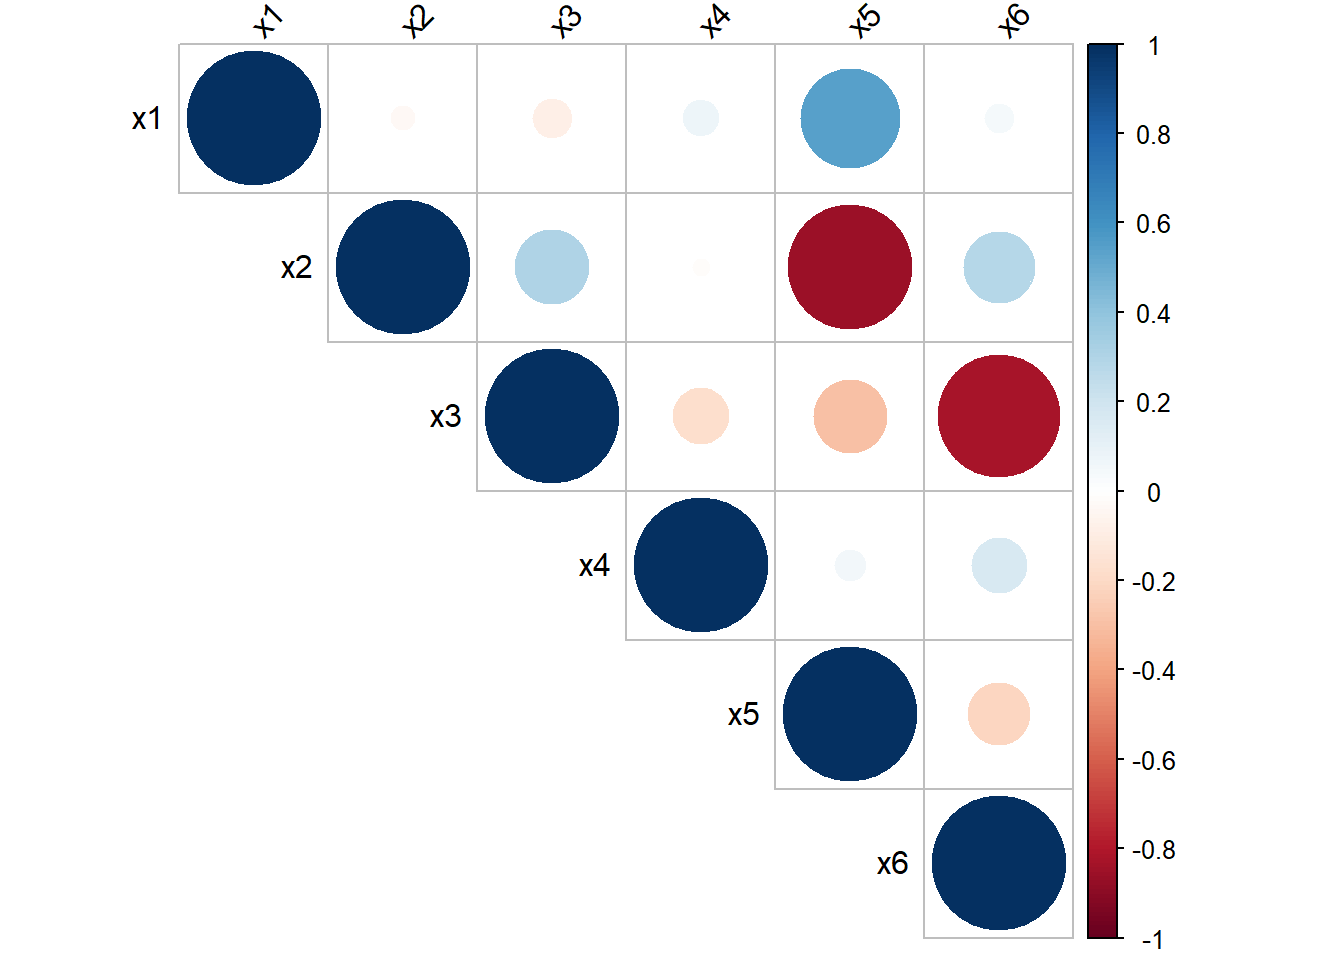
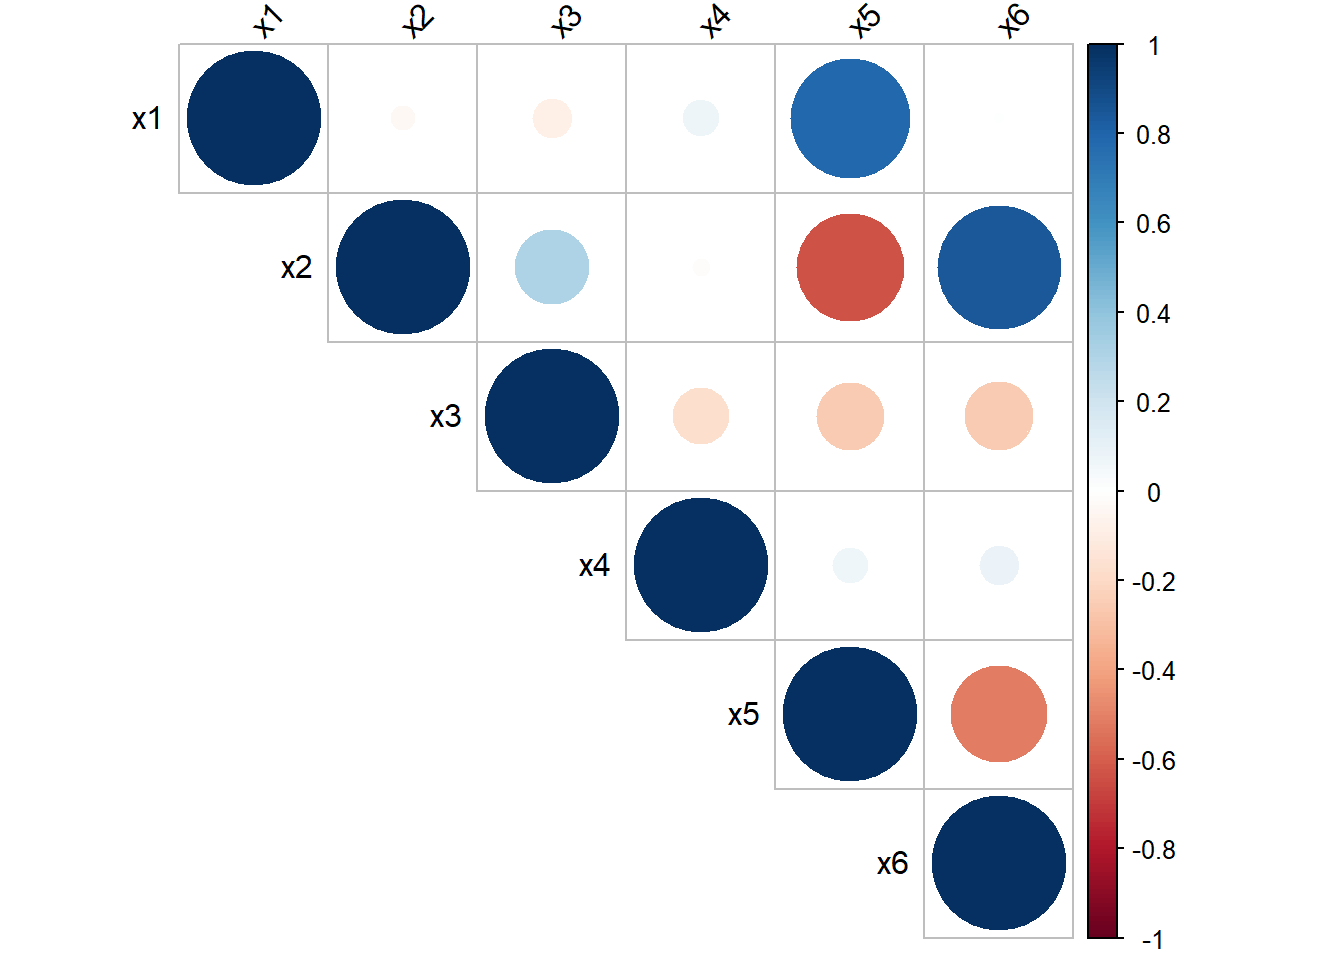
nuevos ejemplos para multi

Changed region(s): [[0.5625, 0.0625, 0.8125, 0.5], [0.6875, 0.6875, 0.7812, 0.8125], [0.7188, 0.5625, 0.7812, 0.625]]

diff --git a/docs/multicoli.html b/docs/multicoli.html
@@ -459,18 +459,23 @@ div.csl-indent {
 <ul>
 <li class="chapter" data-level="" data-path="multicoli.html"><a href="multicoli.html#ejemplo-48"><i class="fa fa-check"></i>Ejemplo</a></li>
 </ul></li>
+<li class="chapter" data-level="" data-path="multicoli.html"><a href="multicoli.html#análisis-de-los-valores-propios-de-mathbfxtopmathbfx"><i class="fa fa-check"></i>Análisis de los valores propios de <span class="math inline">\(\mathbf{X}^\top\mathbf{X}\)</span></a>
+<ul>
+<li class="chapter" data-level="" data-path="multicoli.html"><a href="multicoli.html#número-de-condición"><i class="fa fa-check"></i>Número de condición</a></li>
+<li class="chapter" data-level="" data-path="multicoli.html"><a href="multicoli.html#ejemplo-49"><i class="fa fa-check"></i>Ejemplo</a></li>
+</ul></li>
 </ul></li>
 <li class="chapter" data-level="18" data-path="algmat.html"><a href="algmat.html"><i class="fa fa-check"></i><b>18</b> Algebra matricial con R</a>
 <ul>
 <li class="chapter" data-level="" data-path="algmat.html"><a href="algmat.html#matrices"><i class="fa fa-check"></i>Matrices</a>
 <ul>
-<li class="chapter" data-level="" data-path="algmat.html"><a href="algmat.html#ejemplo-49"><i class="fa fa-check"></i>Ejemplo</a></li>
+<li class="chapter" data-level="" data-path="algmat.html"><a href="algmat.html#ejemplo-50"><i class="fa fa-check"></i>Ejemplo</a></li>
 </ul></li>
 <li class="chapter" data-level="" data-path="algmat.html"><a href="algmat.html#operaciones-básicas-sobre-una-matriz"><i class="fa fa-check"></i>Operaciones básicas sobre una matriz</a></li>
 <li class="chapter" data-level="" data-path="algmat.html"><a href="algmat.html#rango-de-una-matriz"><i class="fa fa-check"></i>Rango de una matriz</a>
 <ul>
-<li class="chapter" data-level="" data-path="algmat.html"><a href="algmat.html#ejemplo-50"><i class="fa fa-check"></i>Ejemplo</a></li>
 <li class="chapter" data-level="" data-path="algmat.html"><a href="algmat.html#ejemplo-51"><i class="fa fa-check"></i>Ejemplo</a></li>
+<li class="chapter" data-level="" data-path="algmat.html"><a href="algmat.html#ejemplo-52"><i class="fa fa-check"></i>Ejemplo</a></li>
 </ul></li>
 </ul></li>
 <li class="chapter" data-level="19" data-path="WilRog.html"><a href="WilRog.html"><i class="fa fa-check"></i><b>19</b> Notación de Wilkinson y Rogers</a>
@@ -481,13 +486,13 @@ div.csl-indent {
 </ul></li>
 <li class="chapter" data-level="20" data-path="xy.html"><a href="xy.html"><i class="fa fa-check"></i><b>20</b> ¿Cómo obtener la matriz <span class="math inline">\(\boldsymbol{X}\)</span> y el vector <span class="math inline">\(\boldsymbol{y}\)</span>?</a>
 <ul>
-<li class="chapter" data-level="" data-path="xy.html"><a href="xy.html#ejemplo-52"><i class="fa fa-check"></i>Ejemplo</a></li>
+<li class="chapter" data-level="" data-path="xy.html"><a href="xy.html#ejemplo-53"><i class="fa fa-check"></i>Ejemplo</a></li>
 </ul></li>
 <li class="chapter" data-level="21" data-path="important.html"><a href="important.html"><i class="fa fa-check"></i><b>21</b> Otros aspectos importantes</a>
 <ul>
 <li class="chapter" data-level="" data-path="important.html"><a href="important.html#qué-otras-funciones-hay-en-r-para-ajustar-un-modelo"><i class="fa fa-check"></i>¿Qué otras funciones hay en R para ajustar un modelo?</a>
 <ul>
-<li class="chapter" data-level="" data-path="important.html"><a href="important.html#ejemplo-53"><i class="fa fa-check"></i>Ejemplo</a></li>
+<li class="chapter" data-level="" data-path="important.html"><a href="important.html#ejemplo-54"><i class="fa fa-check"></i>Ejemplo</a></li>
 </ul></li>
 <li class="chapter" data-level="" data-path="important.html"><a href="important.html#modelos-de-regresión-con-grandes-conjuntos-de-datos"><i class="fa fa-check"></i>Modelos de regresión con grandes conjuntos de datos</a></li>
 <li class="chapter" data-level="" data-path="important.html"><a href="important.html#fast-lm-in-r"><i class="fa fa-check"></i>Fast <code>lm</code> in R</a></li>
@@ -666,7 +671,12 @@ En este ejemplo se usó <code>stats::lm</code> para indicar que queremos la func
 VIF = \frac{1}{1 - {R}^{2}_{k}},
 \]</span></p>
 <p>siendo <span class="math inline">\(R^2_k\)</span> el coeficiente de determinación de la regresión auxiliar de la varaible <span class="math inline">\(X_k\)</span> sobre el resto de las variables explicativas. El <span class="math inline">\(VIF\)</span> toma valores entre 1 e <span class="math inline">\(\infty\)</span>.</p>
-<p>El <span class="math inline">\(VIF\)</span> para cada término del modelo mide el efecto combinado que tienen las dependencias entre los regresores sobre la varianza de ese término. Si hay uno o más <span class="math inline">\(VIF\)</span> grandes, hay multicolinealidad. La experiencia indica que si cualquiera de los <span class="math inline">\(VIF\)</span> es mayor que 5 o 10, es indicio de que los coeficientes asociados de regresión están mal estimados debido a la multicolinealidad <span class="citation">(<a href="#ref-mpv06">Montgomery 2006</a>)</span>.</p>
+<p>El <span class="math inline">\(VIF\)</span> para cada término del modelo mide el efecto combinado que tienen las dependencias entre los regresores sobre la varianza de ese término. Si hay uno o más <span class="math inline">\(VIF\)</span> grandes, hay multicolinealidad. La experiencia indica que si cualquiera de los <span class="math inline">\(VIF\)</span> es mayor que 5 o 10, es indicio de que los coeficientes asociados de regresión están mal estimados debido a la multicolinealidad <span class="citation">(<a href="#ref-mpv06">Montgomery 2006</a>)</span>. La regla de decisión se puede resumir así:</p>
+<ul>
+<li>Si <span class="math inline">\(\text{VIF} \leq 5\)</span> no hay problemas de multicolinealidad.</li>
+<li>Si <span class="math inline">\(5 &lt; \text{VIF} \leq 10\)</span> hay problemas de multicolinealidad moderada.</li>
+<li>Si <span class="math inline">\(\text{VIF} &gt; 10\)</span> hay problemas de multicolinealidad graves.</li>
+</ul>
 <div id="ejemplo-48" class="section level3 unnumbered hasAnchor">
 <h3>Ejemplo<a href="multicoli.html#ejemplo-48" class="anchor-section" aria-label="Anchor link to header"></a></h3>
 <p>Simular un conjunto de datos en el cual existan variables que sean combinación lineal de otras variables. Usar el <span class="math inline">\(VIF\)</span> para identificar las posibles variables colineales y luego comprobar los resultados con la matriz de correlaciones.</p>
@@ -679,31 +689,49 @@ VIF = \frac{1}{1 - {R}^{2}_{k}},
 <span id="cb14-5"><a href="multicoli.html#cb14-5" tabindex="-1"></a>  x4 <span class="ot">&lt;-</span> <span class="fu">rbeta</span>(<span class="at">n=</span>n, <span class="at">shape1=</span><span class="fl">0.5</span>, <span class="at">shape2=</span><span class="fl">0.7</span>)</span>
 <span id="cb14-6"><a href="multicoli.html#cb14-6" tabindex="-1"></a>  ruido1 <span class="ot">&lt;-</span> <span class="fu">runif</span>(<span class="at">n=</span>n, <span class="at">min=</span><span class="sc">-</span><span class="fl">0.5</span>, <span class="at">max=</span><span class="fl">0.5</span>)</span>
 <span id="cb14-7"><a href="multicoli.html#cb14-7" tabindex="-1"></a>  ruido2 <span class="ot">&lt;-</span> <span class="fu">runif</span>(<span class="at">n=</span>n, <span class="at">min=</span><span class="sc">-</span><span class="fl">0.5</span>, <span class="at">max=</span><span class="fl">0.5</span>)</span>
-<span id="cb14-8"><a href="multicoli.html#cb14-8" tabindex="-1"></a>  x5 <span class="ot">&lt;-</span> x1 <span class="sc">-</span> <span class="dv">3</span> <span class="sc">*</span> x2 <span class="sc">+</span> ruido1</span>
-<span id="cb14-9"><a href="multicoli.html#cb14-9" tabindex="-1"></a>  x6 <span class="ot">&lt;-</span> x2 <span class="sc">-</span> <span class="dv">4</span> <span class="sc">*</span> x3 <span class="sc">+</span> ruido2</span>
+<span id="cb14-8"><a href="multicoli.html#cb14-8" tabindex="-1"></a>  x5 <span class="ot">&lt;-</span> <span class="dv">2</span> <span class="sc">*</span> x1 <span class="sc">-</span> <span class="dv">3</span> <span class="sc">*</span> x2 <span class="sc">+</span> ruido1</span>
+<span id="cb14-9"><a href="multicoli.html#cb14-9" tabindex="-1"></a>  x6 <span class="ot">&lt;-</span> <span class="dv">3</span><span class="sc">*</span> x2 <span class="sc">-</span> <span class="dv">4</span> <span class="sc">*</span> x3 <span class="sc">+</span> ruido2</span>
 <span id="cb14-10"><a href="multicoli.html#cb14-10" tabindex="-1"></a>  y <span class="ot">&lt;-</span> <span class="fu">rnorm</span>(<span class="at">n=</span>n, <span class="at">mean=</span> <span class="sc">-</span> <span class="dv">3</span> <span class="sc">+</span> <span class="dv">2</span> <span class="sc">*</span> x1 <span class="sc">-</span> <span class="dv">4</span> <span class="sc">*</span> x2, <span class="at">sd=</span><span class="dv">2</span>)</span>
 <span id="cb14-11"><a href="multicoli.html#cb14-11" tabindex="-1"></a>  <span class="fu">data.frame</span>(y, x1, x2, x3, x4, x5, x6)</span>
 <span id="cb14-12"><a href="multicoli.html#cb14-12" tabindex="-1"></a>}</span></code></pre></div>
-<p>Ahora vamos a generar una base de datos, luego vamos a ajustar el un modelo de regresión para explicar la media de la variable <span class="math inline">\(Y\)</span> en función de las otras variables y por último vamos a calcular los <span class="math inline">\(VIF\)</span> para cada variable explicativa usando la función <code>vif</code> de paquete <code>car</code> <span class="citation">Fox, Weisberg, and Price (<a href="#ref-R-car">2023</a>)</span>.</p>
+<p>Ahora vamos a generar una base de datos, luego vamos a ajustar el un modelo de regresión para explicar la media de la variable <span class="math inline">\(Y\)</span> en función de las otras variables y por último vamos a calcular los <span class="math inline">\(VIF\)</span> para cada variable explicativa usando la función <code>vif</code> de paquete <code>car</code> creado por <span class="citation">Fox, Weisberg, and Price (<a href="#ref-R-car">2023</a>)</span>.</p>
 <div class="sourceCode" id="cb15"><pre class="sourceCode r"><code class="sourceCode r"><span id="cb15-1"><a href="multicoli.html#cb15-1" tabindex="-1"></a>datos <span class="ot">&lt;-</span> <span class="fu">gen_dat</span>(<span class="at">n=</span><span class="dv">30</span>)</span>
-<span id="cb15-2"><a href="multicoli.html#cb15-2" tabindex="-1"></a>mod <span class="ot">&lt;-</span> <span class="fu">lm</span>(y <span class="sc">~</span> ., <span class="at">data=</span>datos)</span>
+<span id="cb15-2"><a href="multicoli.html#cb15-2" tabindex="-1"></a>mod <span class="ot">&lt;-</span> <span class="fu">lm</span>(y <span class="sc">~</span> ., <span class="at">data=</span>datos, <span class="at">x=</span><span class="cn">TRUE</span>)</span>
 <span id="cb15-3"><a href="multicoli.html#cb15-3" tabindex="-1"></a>car<span class="sc">::</span><span class="fu">vif</span>(mod)</span></code></pre></div>
 <pre><code>##         x1         x2         x3         x4         x5         x6 
-##  540.50557 1408.06675  298.35108    1.05934 1979.04151  292.87883</code></pre>
+## 2179.55685 2093.65153  298.35108    1.05934 3675.23843  920.11083</code></pre>
 <p>De la salida anterior vemos que los <span class="math inline">\(VIF\)</span> de todas las variables, excepto <span class="math inline">\(X_4\)</span>, son muy grandes, eso indica que hay un problema de colinealidad entre esas variables.</p>
 <p>El <span class="math inline">\(VIF\)</span> para la variable <span class="math inline">\(X_4\)</span> fue pequeño porque en la generación de los datos esa variable no tuvo nada que ver con las restantes.</p>
 <p>Vamos ahora a dibujar la matriz de correlaciones de Pearson así:</p>
-<div class="sourceCode" id="cb17"><pre class="sourceCode r"><code class="sourceCode r"><span id="cb17-1"><a href="multicoli.html#cb17-1" tabindex="-1"></a><span class="co"># library(dplyr)</span></span>
-<span id="cb17-2"><a href="multicoli.html#cb17-2" tabindex="-1"></a><span class="co"># datos |&gt; </span></span>
-<span id="cb17-3"><a href="multicoli.html#cb17-3" tabindex="-1"></a><span class="co">#   select(!y) |&gt; </span></span>
-<span id="cb17-4"><a href="multicoli.html#cb17-4" tabindex="-1"></a><span class="co">#   cor(method=&quot;pearson&quot;) |&gt; </span></span>
-<span id="cb17-5"><a href="multicoli.html#cb17-5" tabindex="-1"></a><span class="co">#   round(digits=2) -&gt; mat_cor</span></span>
-<span id="cb17-6"><a href="multicoli.html#cb17-6" tabindex="-1"></a></span>
-<span id="cb17-7"><a href="multicoli.html#cb17-7" tabindex="-1"></a>mat_cor <span class="ot">&lt;-</span> <span class="fu">cor</span>(datos[, <span class="sc">-</span><span class="dv">1</span>])</span>
-<span id="cb17-8"><a href="multicoli.html#cb17-8" tabindex="-1"></a></span>
-<span id="cb17-9"><a href="multicoli.html#cb17-9" tabindex="-1"></a><span class="fu">library</span>(corrplot)</span>
-<span id="cb17-10"><a href="multicoli.html#cb17-10" tabindex="-1"></a><span class="fu">corrplot</span>(mat_cor, <span class="at">type=</span><span class="st">&quot;upper&quot;</span>, <span class="at">tl.col=</span><span class="st">&quot;black&quot;</span>, <span class="at">tl.srt=</span><span class="dv">45</span>)</span></code></pre></div>
+<div class="sourceCode" id="cb17"><pre class="sourceCode r"><code class="sourceCode r"><span id="cb17-1"><a href="multicoli.html#cb17-1" tabindex="-1"></a>mat_cor <span class="ot">&lt;-</span> <span class="fu">cor</span>(datos[, <span class="sc">-</span><span class="dv">1</span>])</span>
+<span id="cb17-2"><a href="multicoli.html#cb17-2" tabindex="-1"></a></span>
+<span id="cb17-3"><a href="multicoli.html#cb17-3" tabindex="-1"></a><span class="fu">library</span>(corrplot)</span>
+<span id="cb17-4"><a href="multicoli.html#cb17-4" tabindex="-1"></a><span class="fu">corrplot</span>(mat_cor, <span class="at">type=</span><span class="st">&quot;upper&quot;</span>, <span class="at">tl.col=</span><span class="st">&quot;black&quot;</span>, <span class="at">tl.srt=</span><span class="dv">45</span>)</span></code></pre></div>
 <p><img src="Regresion_con_R_files/figure-html/multicolini-1.png" width="672" /></p>
+<p>De la figura anterior se puede ver que las variables <span class="math inline">\(X_5\)</span>, <span class="math inline">\(X_1\)</span>, <span class="math inline">\(X_2\)</span>, <span class="math inline">\(X_6\)</span> y <span class="math inline">\(X_3\)</span> son las que presentan mayores correlaciones absolutas entre ellas. La variable <span class="math inline">\(X_4\)</span> no muestra correlación con ninguna de las otras covariables.</p>
+</div>
+</div>
+<div id="análisis-de-los-valores-propios-de-mathbfxtopmathbfx" class="section level2 unnumbered hasAnchor">
+<h2>Análisis de los valores propios de <span class="math inline">\(\mathbf{X}^\top\mathbf{X}\)</span><a href="multicoli.html#análisis-de-los-valores-propios-de-mathbfxtopmathbfx" class="anchor-section" aria-label="Anchor link to header"></a></h2>
+<div id="número-de-condición" class="section level3 unnumbered hasAnchor">
+<h3>Número de condición<a href="multicoli.html#número-de-condición" class="anchor-section" aria-label="Anchor link to header"></a></h3>
+<p>Mide la dispersión en el espectro de los valores propios de la matriz <span class="math inline">\(\mathbf{X}^\top\mathbf{X}\)</span>. Se calcula como: <span class="math inline">\(\kappa = \lambda_{\max} / \lambda_{\min}\)</span>. En <span class="math inline">\(R\)</span> se obtienen valores en raíz cuadrada, es decir, <span class="math inline">\(\sqrt{\kappa}\)</span>, para el cual el criterio para detectar multicolinealidad es}</p>
+<ul>
+<li><p>Si <span class="math inline">\(\sqrt{\kappa} \leq 10\)</span> no hay problemas de multicolinealidad.</p></li>
+<li><p>Si <span class="math inline">\(10 &lt; \sqrt{\kappa} \leq 31.62\)</span> hay problemas de multicolinealidad moderada.</p></li>
+<li><p>Si <span class="math inline">\(\sqrt{\kappa} &gt; 31.62\)</span> hay problemas de multicolinealidad graves.</p></li>
+</ul>
+</div>
+<div id="ejemplo-49" class="section level3 unnumbered hasAnchor">
+<h3>Ejemplo<a href="multicoli.html#ejemplo-49" class="anchor-section" aria-label="Anchor link to header"></a></h3>
+<p>Considere los datos del ejemplo anterior y calcule <span class="math inline">\(\kappa\)</span>.</p>
+<p><strong>Solución</strong></p>
+<p>En el modelo ajustado <code>mod</code> está la matriz <span class="math inline">\(\mathbf{X}\)</span> que nos permite obtener <span class="math inline">\(\kappa\)</span>. A continuación el código a usar.</p>
+<div class="sourceCode" id="cb18"><pre class="sourceCode r"><code class="sourceCode r"><span id="cb18-1"><a href="multicoli.html#cb18-1" tabindex="-1"></a>X <span class="ot">&lt;-</span> mod<span class="sc">$</span>x</span>
+<span id="cb18-2"><a href="multicoli.html#cb18-2" tabindex="-1"></a>res <span class="ot">&lt;-</span> <span class="fu">eigen</span>(<span class="fu">t</span>(X) <span class="sc">%*%</span> X)</span>
+<span id="cb18-3"><a href="multicoli.html#cb18-3" tabindex="-1"></a><span class="fu">max</span>(res<span class="sc">$</span>values) <span class="sc">/</span> <span class="fu">min</span>(res<span class="sc">$</span>values)</span></code></pre></div>
+<pre><code>## [1] 223212.4</code></pre>
+<p>De la salida anterior vemos que <span class="math inline">\(\kappa\)</span> es muy pero muy grande, eso significa que hay problemas de multicolinealidad, como era de esperarse.</p>
 
 </div>
 </div>

diff --git a/docs/404.html b/docs/404.html
@@ -459,18 +459,23 @@ div.csl-indent {
 <ul>
 <li class="chapter" data-level="" data-path="multicoli.html"><a href="multicoli.html#ejemplo-48"><i class="fa fa-check"></i>Ejemplo</a></li>
 </ul></li>
+<li class="chapter" data-level="" data-path="multicoli.html"><a href="multicoli.html#análisis-de-los-valores-propios-de-mathbfxtopmathbfx"><i class="fa fa-check"></i>Análisis de los valores propios de <span class="math inline">\(\mathbf{X}^\top\mathbf{X}\)</span></a>
+<ul>
+<li class="chapter" data-level="" data-path="multicoli.html"><a href="multicoli.html#número-de-condición"><i class="fa fa-check"></i>Número de condición</a></li>
+<li class="chapter" data-level="" data-path="multicoli.html"><a href="multicoli.html#ejemplo-49"><i class="fa fa-check"></i>Ejemplo</a></li>
+</ul></li>
 </ul></li>
 <li class="chapter" data-level="18" data-path="algmat.html"><a href="algmat.html"><i class="fa fa-check"></i><b>18</b> Algebra matricial con R</a>
 <ul>
 <li class="chapter" data-level="" data-path="algmat.html"><a href="algmat.html#matrices"><i class="fa fa-check"></i>Matrices</a>
 <ul>
-<li class="chapter" data-level="" data-path="algmat.html"><a href="algmat.html#ejemplo-49"><i class="fa fa-check"></i>Ejemplo</a></li>
+<li class="chapter" data-level="" data-path="algmat.html"><a href="algmat.html#ejemplo-50"><i class="fa fa-check"></i>Ejemplo</a></li>
 </ul></li>
 <li class="chapter" data-level="" data-path="algmat.html"><a href="algmat.html#operaciones-básicas-sobre-una-matriz"><i class="fa fa-check"></i>Operaciones básicas sobre una matriz</a></li>
 <li class="chapter" data-level="" data-path="algmat.html"><a href="algmat.html#rango-de-una-matriz"><i class="fa fa-check"></i>Rango de una matriz</a>
 <ul>
-<li class="chapter" data-level="" data-path="algmat.html"><a href="algmat.html#ejemplo-50"><i class="fa fa-check"></i>Ejemplo</a></li>
 <li class="chapter" data-level="" data-path="algmat.html"><a href="algmat.html#ejemplo-51"><i class="fa fa-check"></i>Ejemplo</a></li>
+<li class="chapter" data-level="" data-path="algmat.html"><a href="algmat.html#ejemplo-52"><i class="fa fa-check"></i>Ejemplo</a></li>
 </ul></li>
 </ul></li>
 <li class="chapter" data-level="19" data-path="WilRog.html"><a href="WilRog.html"><i class="fa fa-check"></i><b>19</b> Notación de Wilkinson y Rogers</a>
@@ -481,13 +486,13 @@ div.csl-indent {
 </ul></li>
 <li class="chapter" data-level="20" data-path="xy.html"><a href="xy.html"><i class="fa fa-check"></i><b>20</b> ¿Cómo obtener la matriz <span class="math inline">\(\boldsymbol{X}\)</span> y el vector <span class="math inline">\(\boldsymbol{y}\)</span>?</a>
 <ul>
-<li class="chapter" data-level="" data-path="xy.html"><a href="xy.html#ejemplo-52"><i class="fa fa-check"></i>Ejemplo</a></li>
+<li class="chapter" data-level="" data-path="xy.html"><a href="xy.html#ejemplo-53"><i class="fa fa-check"></i>Ejemplo</a></li>
 </ul></li>
 <li class="chapter" data-level="21" data-path="important.html"><a href="important.html"><i class="fa fa-check"></i><b>21</b> Otros aspectos importantes</a>
 <ul>
 <li class="chapter" data-level="" data-path="important.html"><a href="important.html#qué-otras-funciones-hay-en-r-para-ajustar-un-modelo"><i class="fa fa-check"></i>¿Qué otras funciones hay en R para ajustar un modelo?</a>
 <ul>
-<li class="chapter" data-level="" data-path="important.html"><a href="important.html#ejemplo-53"><i class="fa fa-check"></i>Ejemplo</a></li>
+<li class="chapter" data-level="" data-path="important.html"><a href="important.html#ejemplo-54"><i class="fa fa-check"></i>Ejemplo</a></li>
 </ul></li>
 <li class="chapter" data-level="" data-path="important.html"><a href="important.html#modelos-de-regresión-con-grandes-conjuntos-de-datos"><i class="fa fa-check"></i>Modelos de regresión con grandes conjuntos de datos</a></li>
 <li class="chapter" data-level="" data-path="important.html"><a href="important.html#fast-lm-in-r"><i class="fa fa-check"></i>Fast <code>lm</code> in R</a></li>
